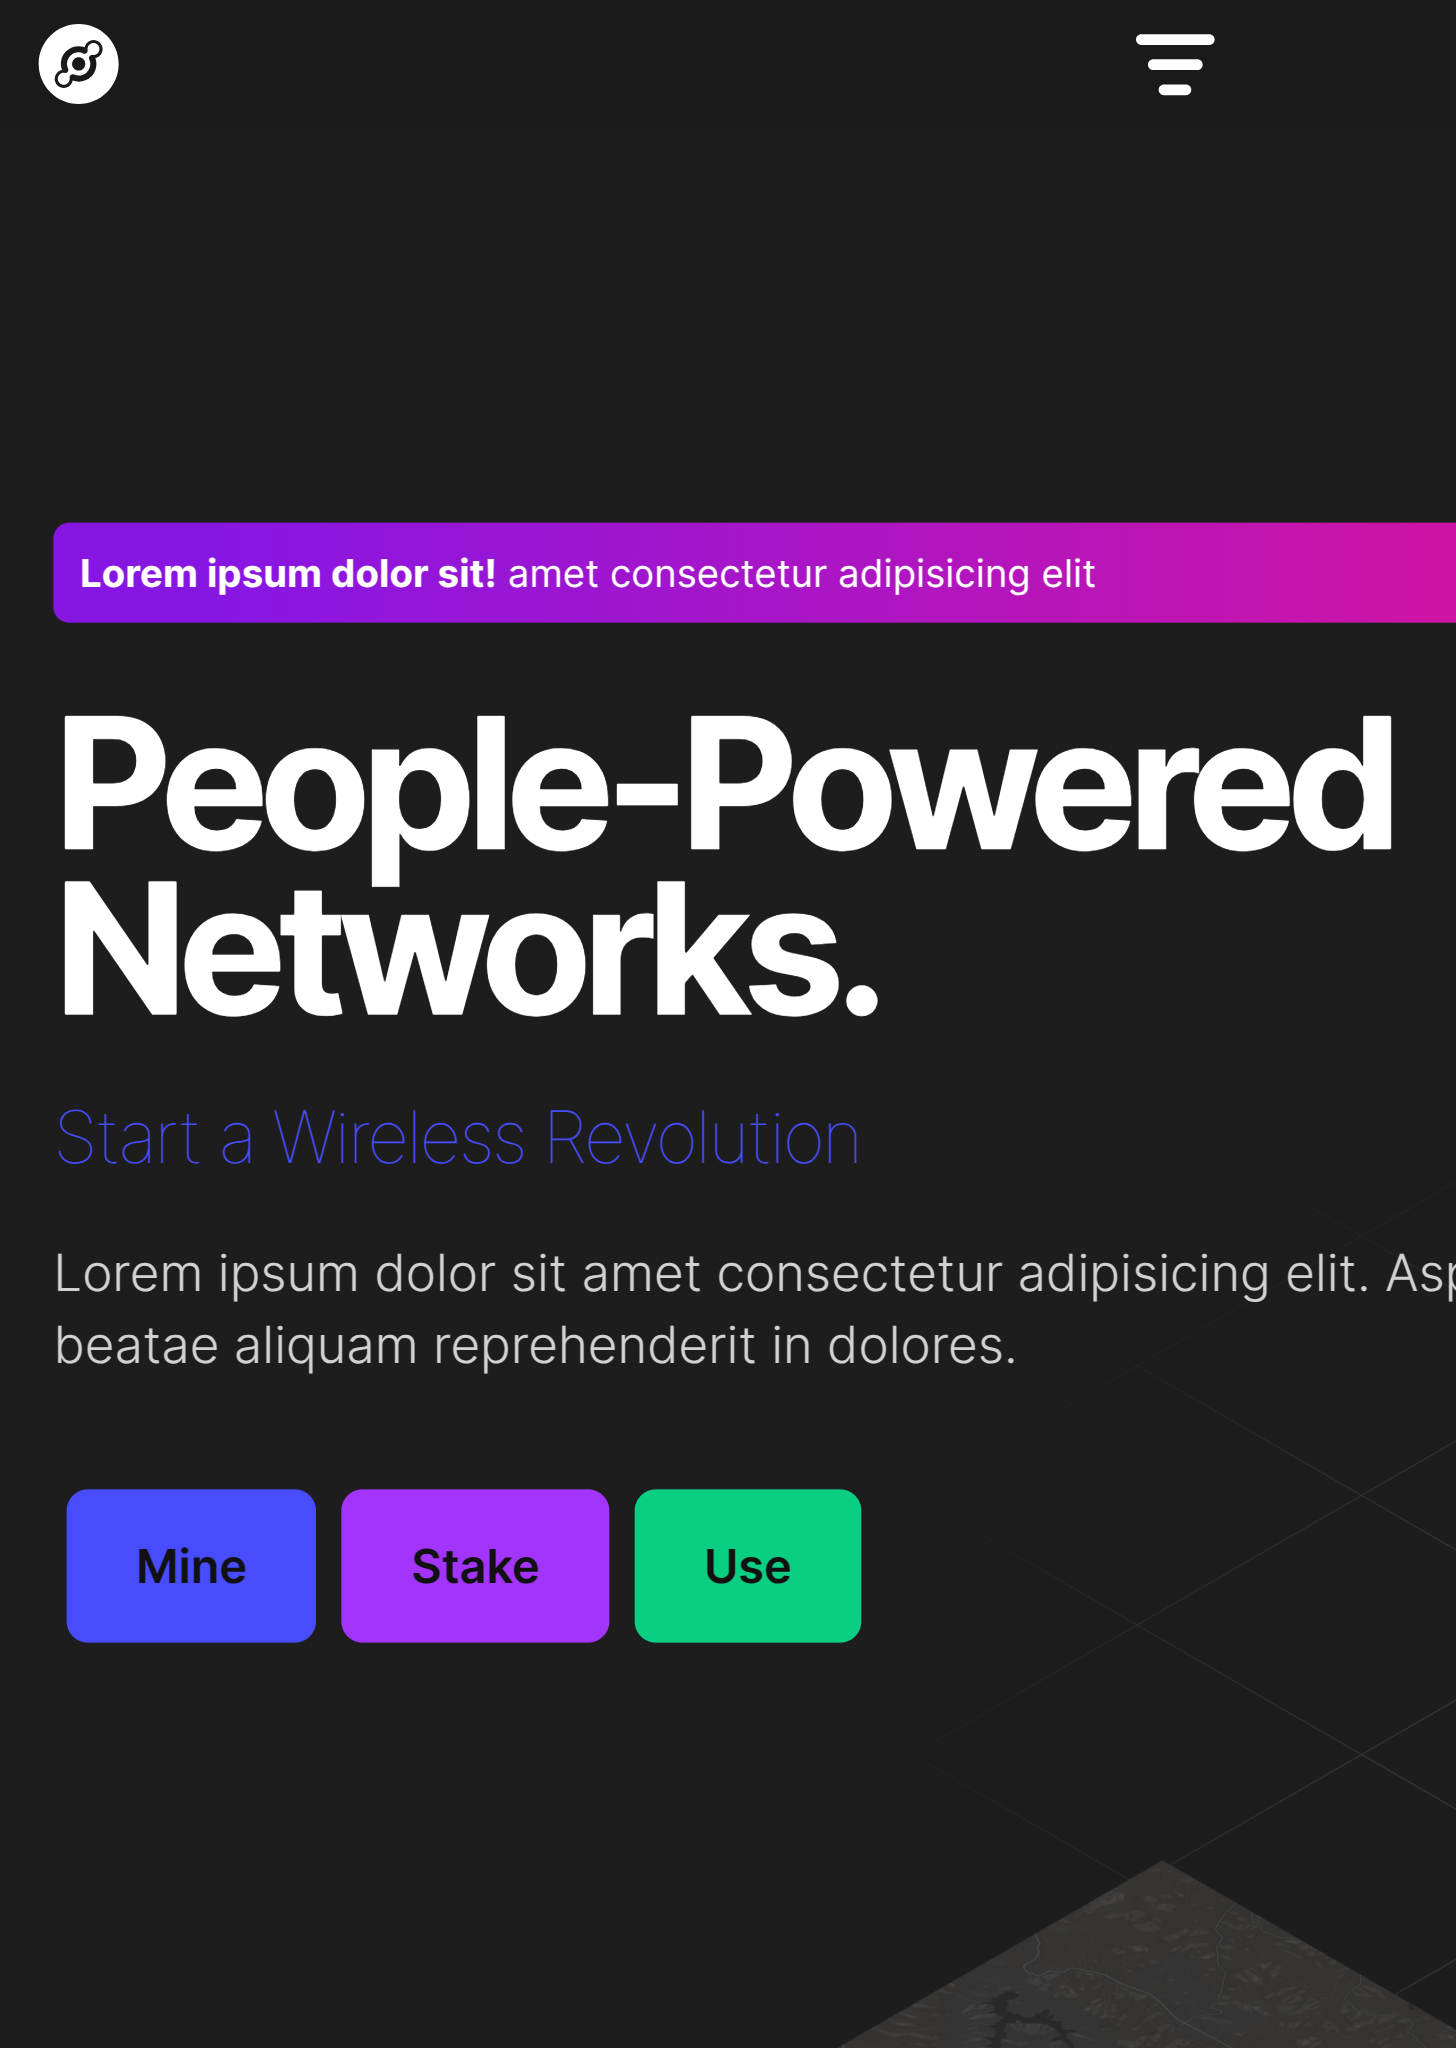
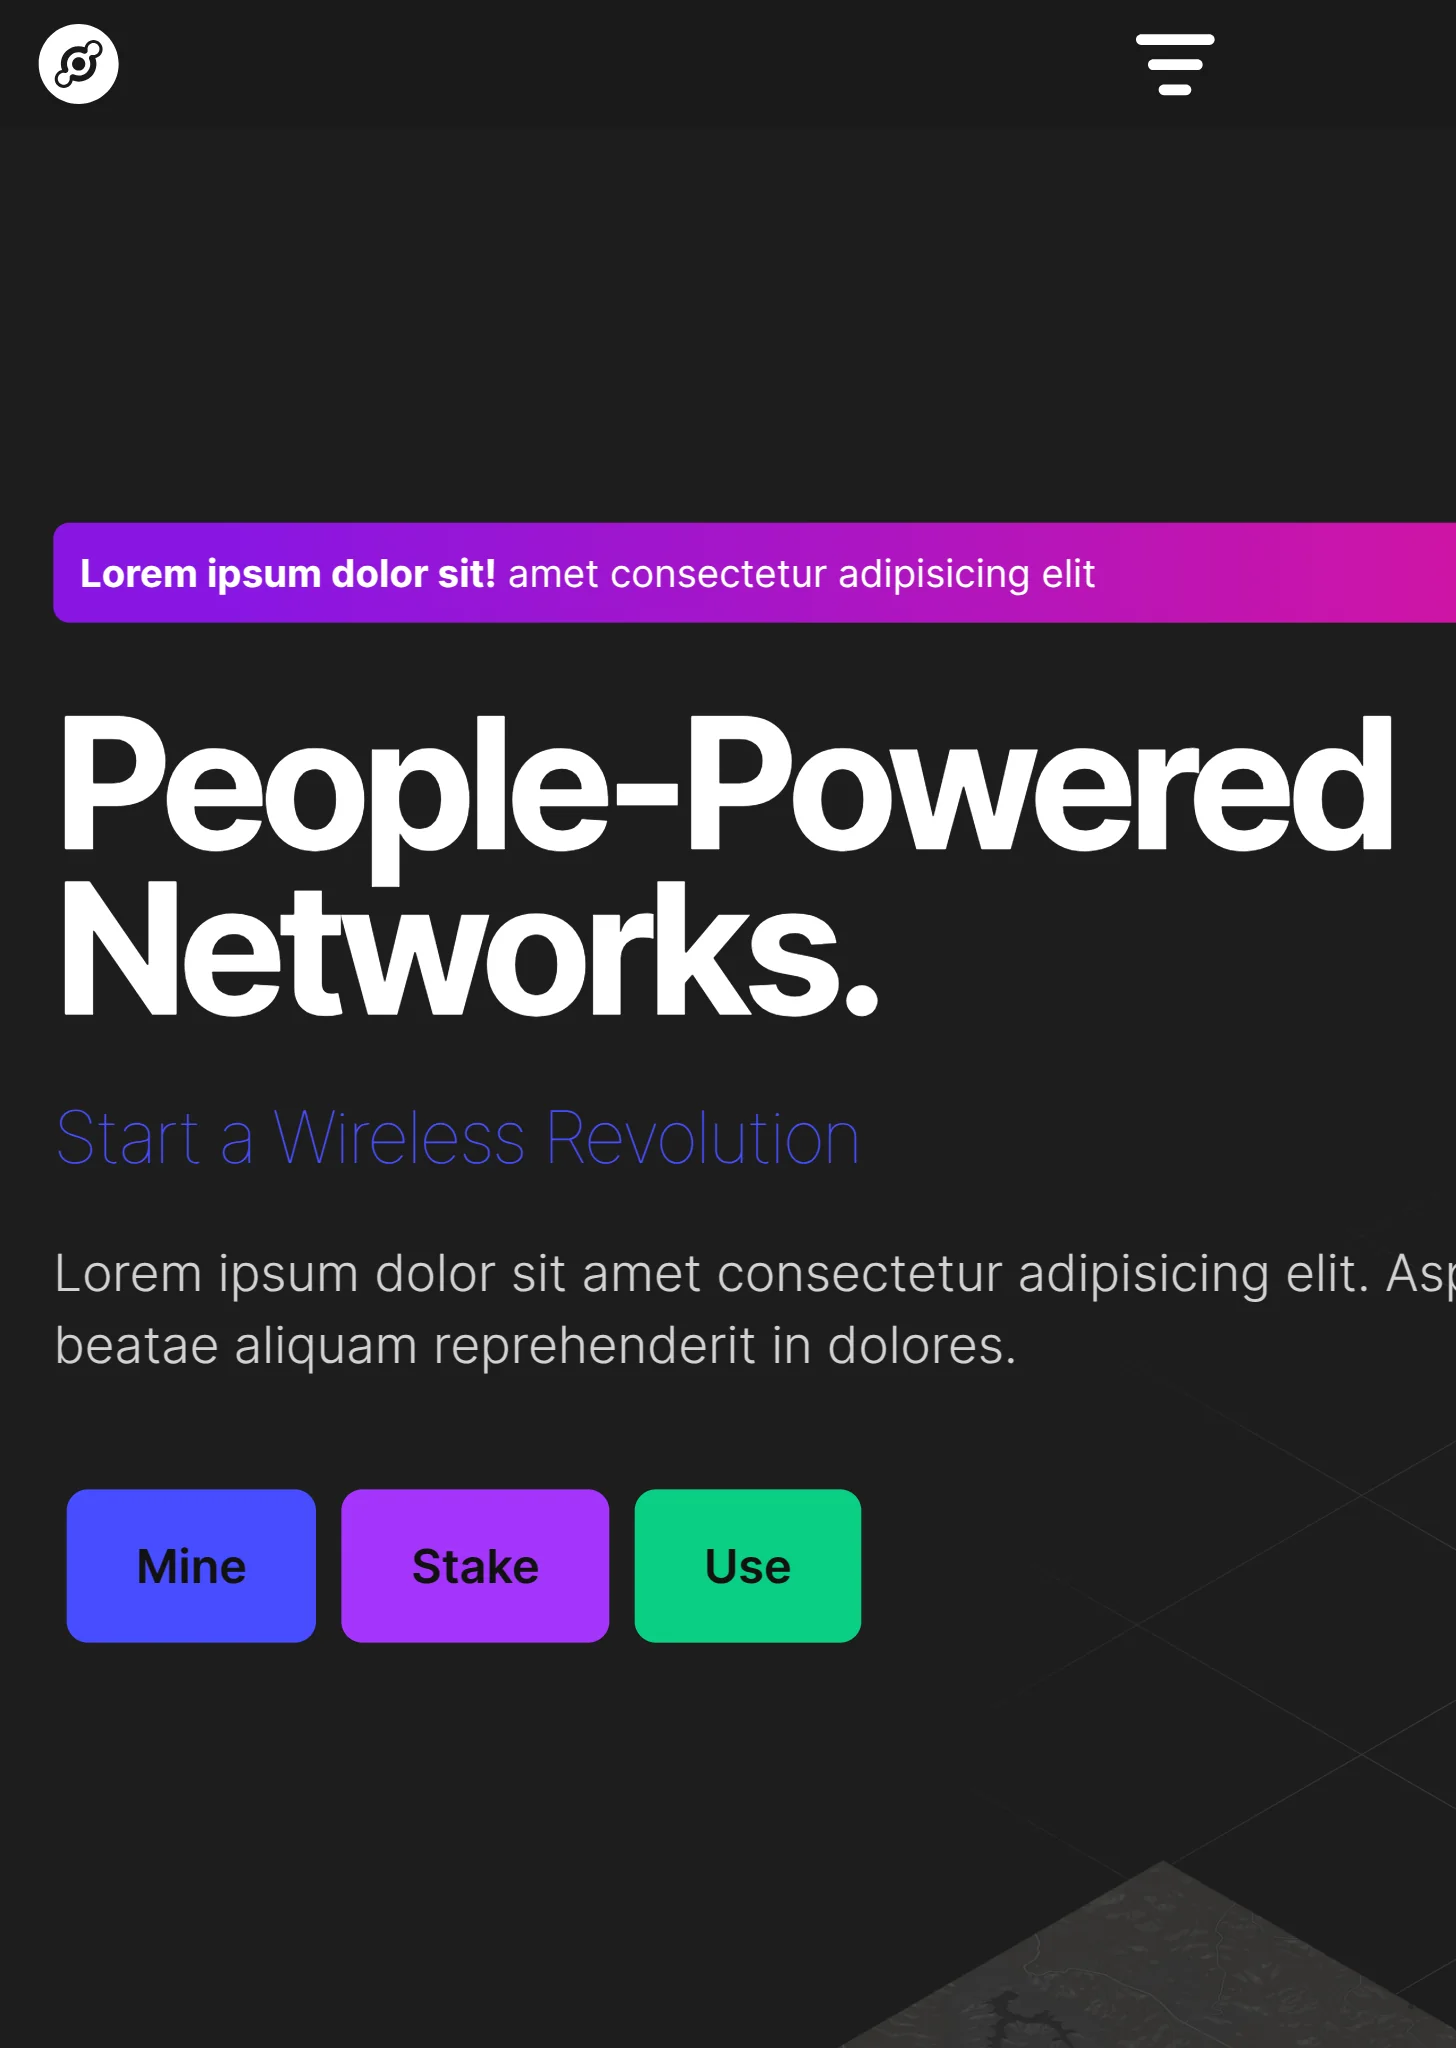
Images compression

diff --git a/src/app/sites-vitrines/market-kit/components/CTA.js b/src/app/sites-vitrines/market-kit/components/CTA.js
@@ -29,16 +29,16 @@ const CTA = () => {
   // Partner brand logos
   const brandLogos = [
     {
-      src: "/img/sites-vitrines/market-kit/leclerx-logo.png",
+      src: "/img/sites-vitrines/market-kit/leclerx-logo.webp",
       alt: "Leclerx",
     },
     {
-      src: "/img/sites-vitrines/market-kit/butterfly-groenhouse-logo.png",
+      src: "/img/sites-vitrines/market-kit/butterfly-groenhouse-logo.webp",
       alt: "The Butterfly Greenhouse",
     },
-    { src: "/img/sites-vitrines/market-kit/jbo-logo.png", alt: "JBO" },
+    { src: "/img/sites-vitrines/market-kit/jbo-logo.webp", alt: "JBO" },
     {
-      src: "/img/sites-vitrines/market-kit/burger-queen-logo.png",
+      src: "/img/sites-vitrines/market-kit/burger-queen-logo.webp",
       alt: "Burger Queen",
     },
   ];
@@ -120,7 +120,7 @@ const CTA = () => {
               className="relative aspect-square"
             >
               <OptimizedImage
-                src="/img/sites-vitrines/market-kit/analyse-performance.png"
+                src="/img/sites-vitrines/market-kit/analyse-performance.webp"
                 alt="Analyse de performance commerciale"
                 width={414}
                 height={414}
@@ -169,7 +169,7 @@ const CTA = () => {
               className="relative aspect-square place-self-center justify-self-center"
             >
               <OptimizedImage
-                src="/img/sites-vitrines/market-kit/equipe-brainstorming.png"
+                src="/img/sites-vitrines/market-kit/equipe-brainstorming.webp"
                 alt="Équipe brainstorming"
                 width={351}
                 height={351}

diff --git a/src/app/sites-vitrines/market-kit/components/Footer.js b/src/app/sites-vitrines/market-kit/components/Footer.js
@@ -52,7 +52,7 @@ const Footer = () => {
               className="inline-block"
             >
               <OptimizedImage
-                src="/img/sites-vitrines/market-kit/logo-white_transparent.png"
+                src="/img/sites-vitrines/market-kit/logo-white_transparent.webp"
                 alt="Market Kit"
                 width={72}
                 height={72}

diff --git a/src/app/sites-vitrines/market-kit/components/Header.js b/src/app/sites-vitrines/market-kit/components/Header.js
@@ -90,7 +90,7 @@ const Header = () => {
             className="w-20"
           >
             <OptimizedImage
-              src="/img/sites-vitrines/market-kit/logo_transparent.png"
+              src="/img/sites-vitrines/market-kit/logo_transparent.webp"
               alt="Market Kit Logo"
               width={80}
               height={80}

diff --git a/src/app/sites-vitrines/market-kit/components/Expertise.js b/src/app/sites-vitrines/market-kit/components/Expertise.js
@@ -10,7 +10,7 @@ const ExpertiseCard = ({ icon, title }) => (
     transition={{ type: "spring", stiffness: 300, damping: 20 }}
   >
     <OptimizedImage
-      src={`/img/sites-vitrines/market-kit/${icon}.png`}
+      src={`/img/sites-vitrines/market-kit/${icon}.webp`}
       alt={title}
       width={128}
       height={128}
